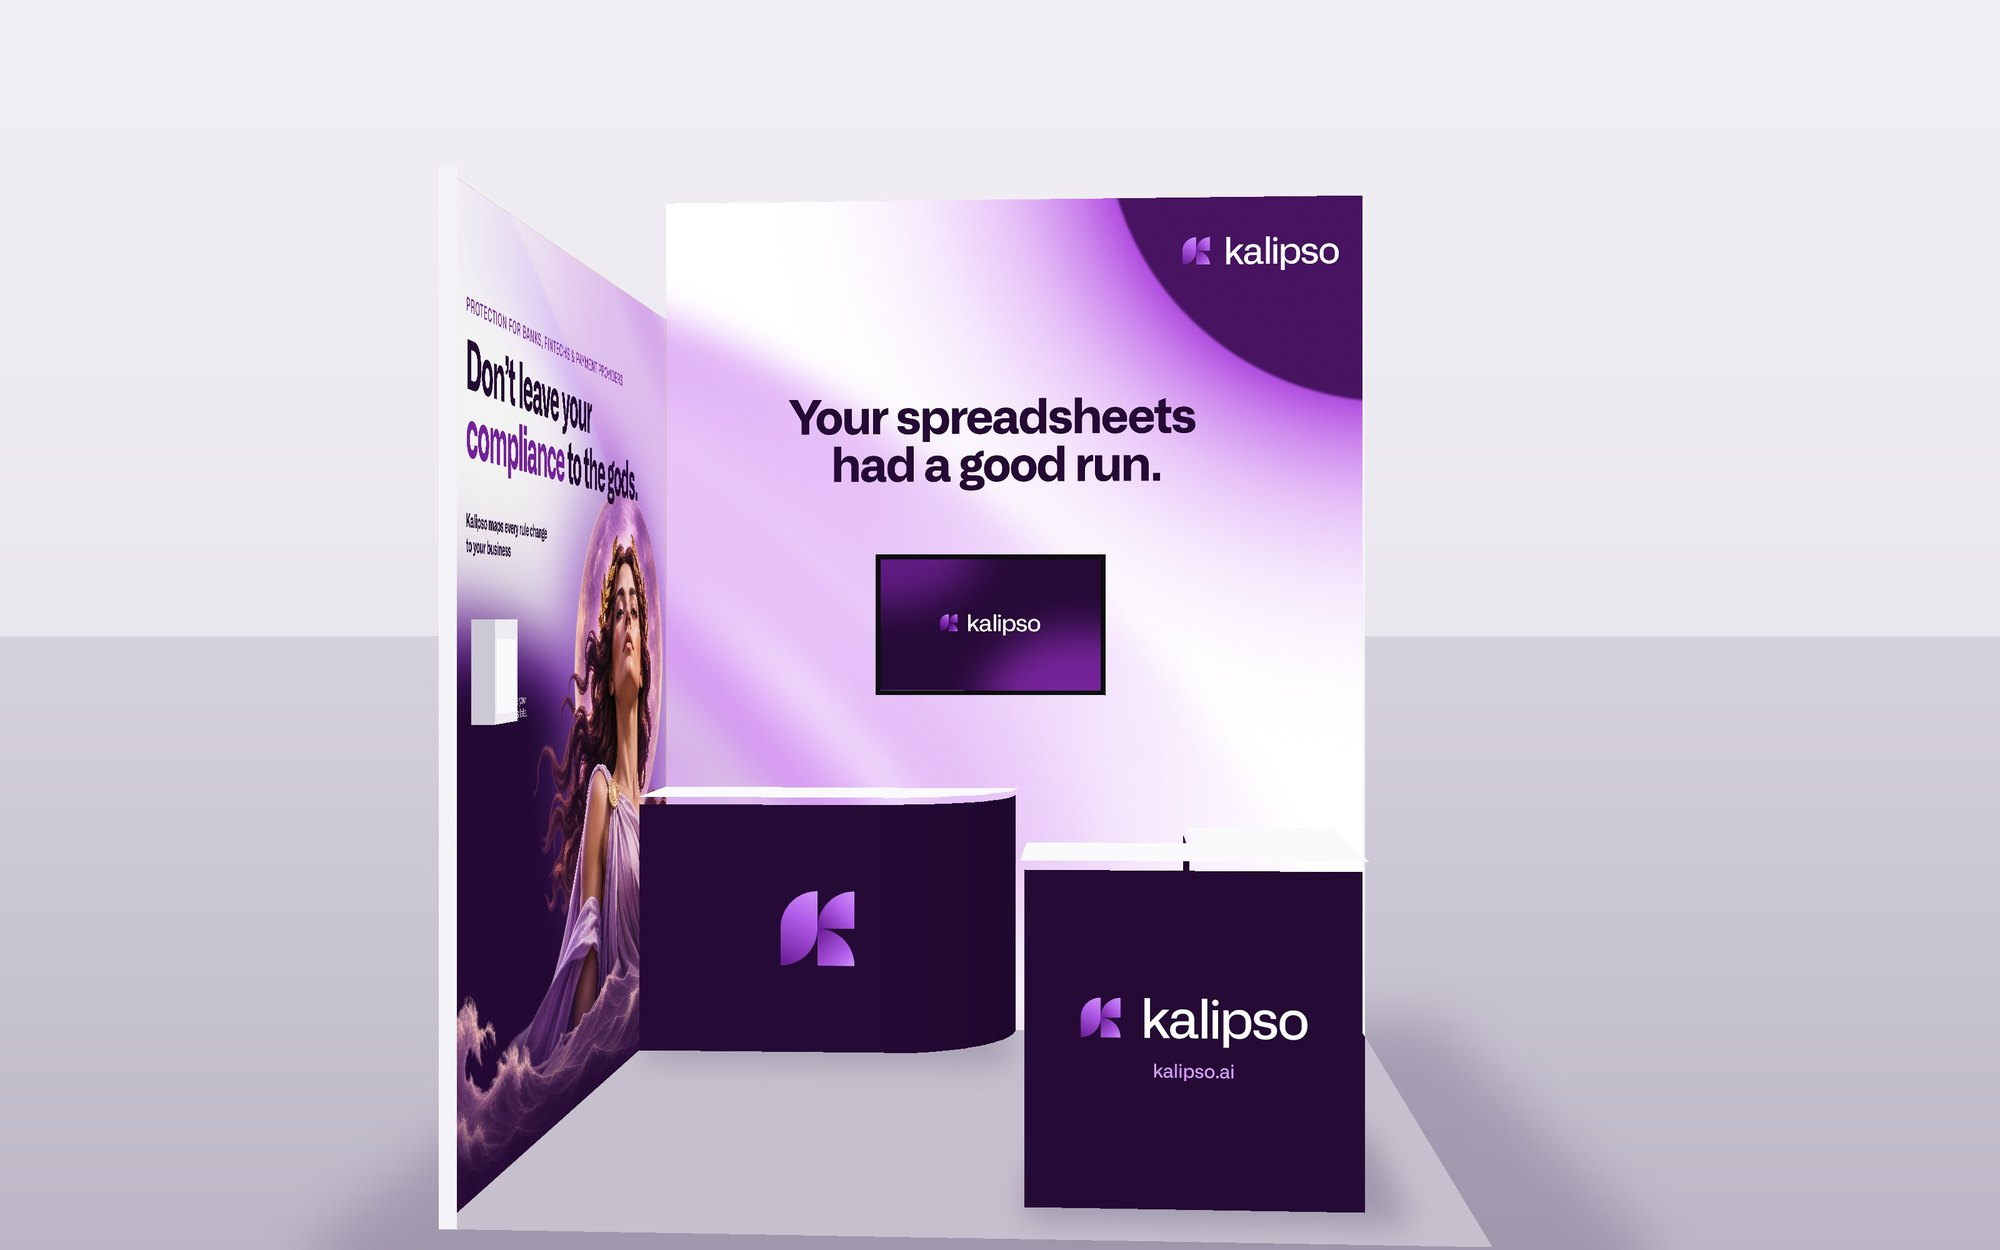
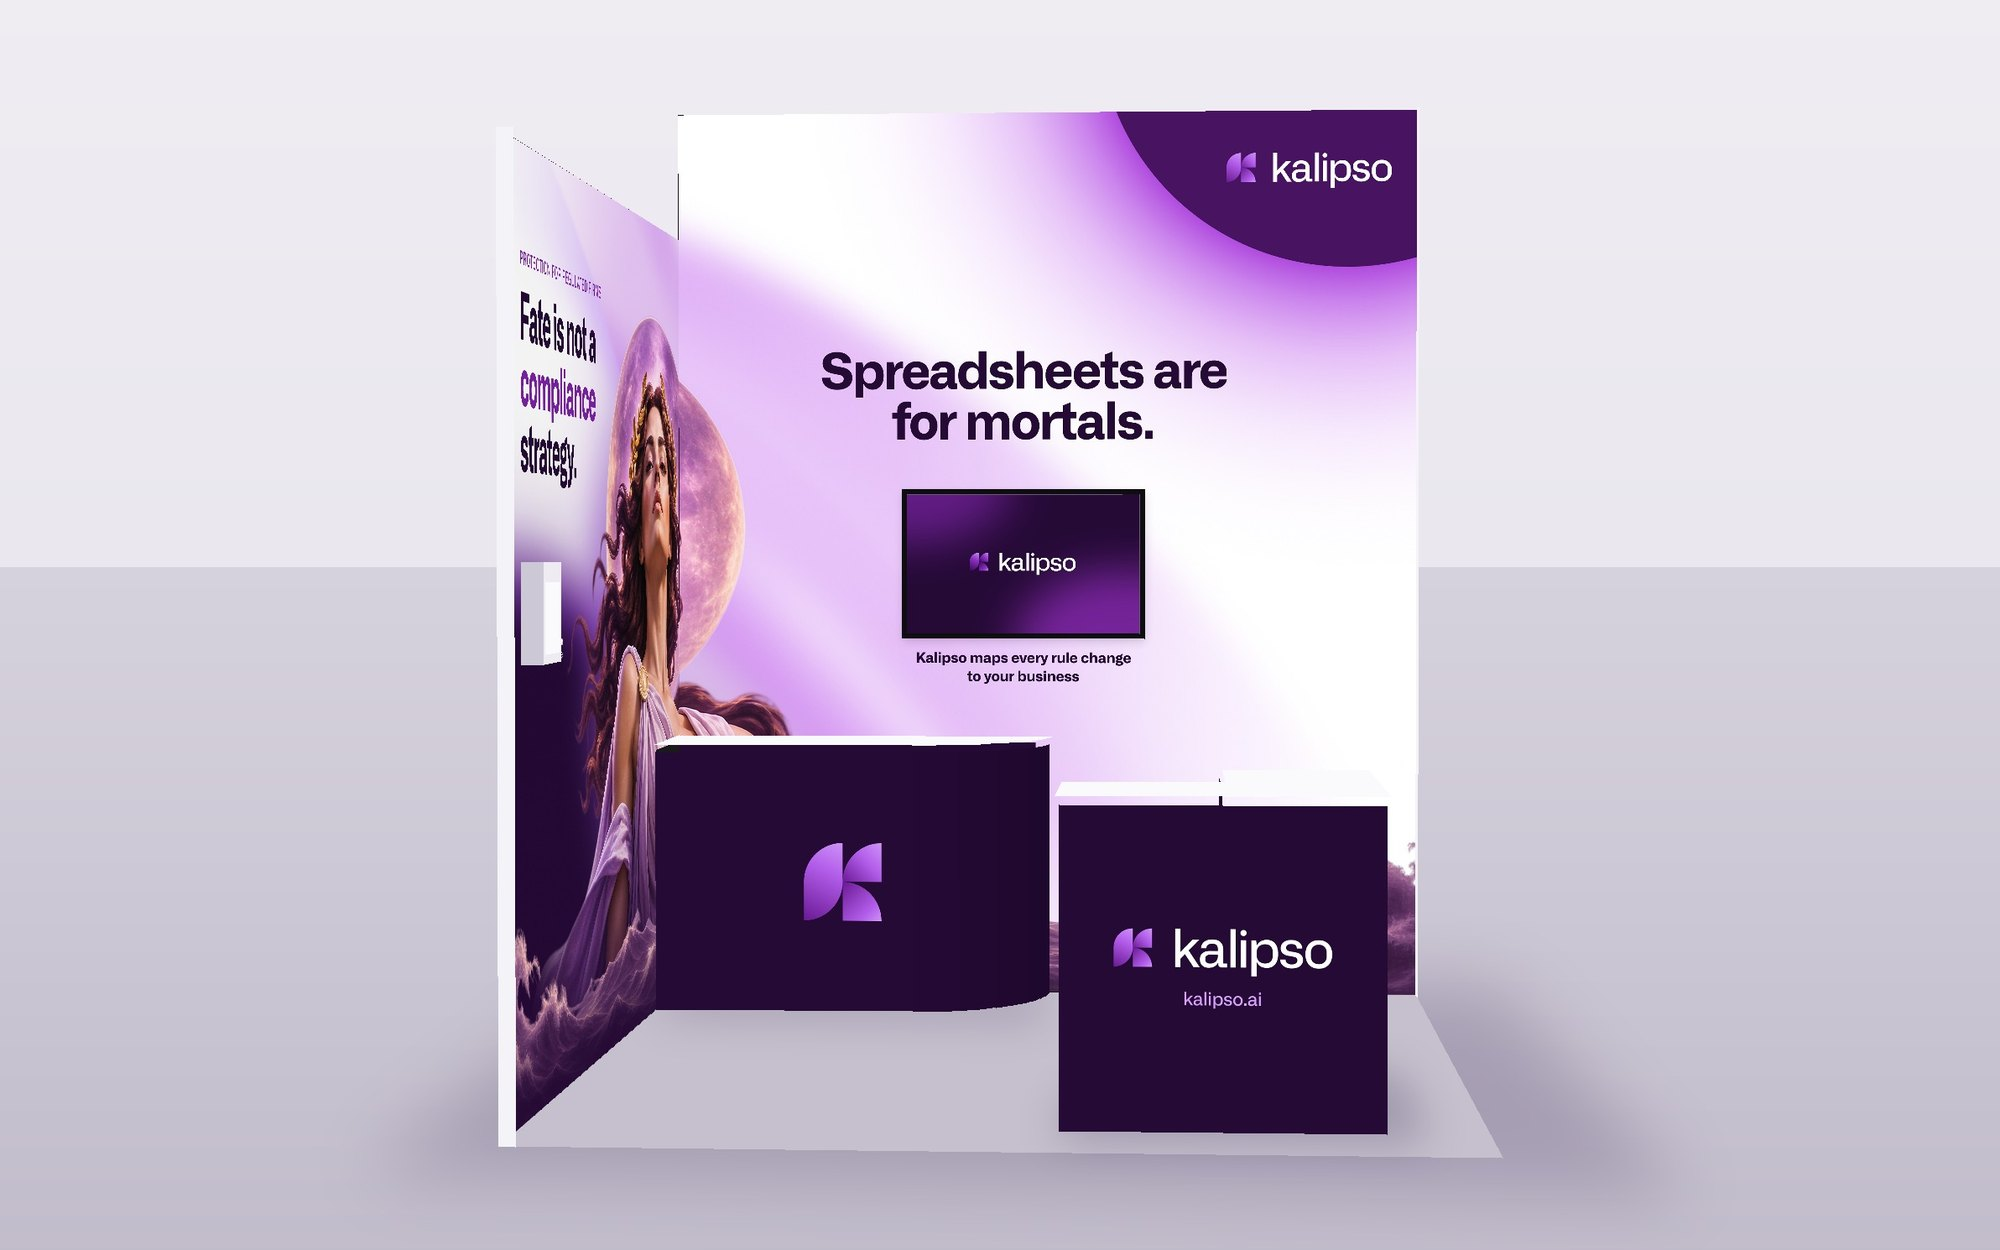
Stands page: 20 Nov FinTech mockups, Virginia's quote on #RISK

Changed region(s): [[0.155, 0.0624, 0.837, 1.0]]

diff --git a/services/exhibition-stand-design.html b/services/exhibition-stand-design.html
@@ -74,6 +74,12 @@
   .esd-project__lead { margin: 0; font-size: 15px; line-height: 1.55; color: var(--ink-3); max-width: 44ch; }
   .esd-project__meta { margin-top: auto; padding-top: 14px; border-top: 1px solid var(--rule-light); width: 100%; display: flex; flex-direction: column; gap: 8px; font-family: var(--mono); font-size: 10px; letter-spacing: 0.16em; text-transform: uppercase; color: var(--ink-3); }
   .esd-project__meta b { font-weight: 400; color: var(--ink); }
+  .esd-quote { margin: 14px 0 0; padding: 2px 0 2px 14px; border-left: 2px solid var(--pop); }
+  .esd-quote p { margin: 0 0 8px; font-family: var(--display); font-style: italic; font-weight: 500; font-size: 15px; line-height: 1.35; letter-spacing: -0.01em; color: var(--ink); max-width: 40ch; }
+  .esd-quote__who { display: flex; align-items: center; gap: 10px; }
+  .esd-quote__who img { width: 32px; height: 32px; border-radius: 50%; border: 1px solid var(--rule-light); background: #fff; object-fit: cover; flex-shrink: 0; }
+  .esd-quote__who span { font-size: 13px; line-height: 1.25; color: var(--ink-3); }
+  .esd-quote__who b { display: block; font-weight: 500; font-size: 14px; color: var(--ink); }
   .esd-dot { font-style: normal; font-size: 9px; vertical-align: 1px; margin-right: 6px; }
 
   /* one main mockup (same 16:10 shape as the renders, so nothing is cut off) + two on the side;
@@ -191,9 +197,9 @@
       </div>
     </div>
     <div class="esd-gal reveal">
-      <figure><span class="esd-tag">Mockup</span><img src="/assets/stands/fintech-goddess-side.jpg" srcset="/assets/stands/fintech-goddess-side-sm.jpg 1000w, /assets/stands/fintech-goddess-side.jpg 2000w" sizes="(max-width: 760px) 100vw, 70vw" width="2000" height="1250" alt="Mockup of the Kalipso FinTech Connect stand: a goddess rising out of deep purple under the headline 'Don't leave your compliance to the gods.'" fetchpriority="high"></figure>
+      <figure><span class="esd-tag">Mockup</span><img src="/assets/stands/fintech-goddess-side.jpg" srcset="/assets/stands/fintech-goddess-side-sm.jpg 1000w, /assets/stands/fintech-goddess-side.jpg 2000w" sizes="(max-width: 760px) 100vw, 70vw" width="2000" height="1250" alt="Mockup of the Kalipso FinTech Connect stand: a goddess rising out of deep purple under the headline 'Fate is not a compliance strategy.'" fetchpriority="high"></figure>
       <figure><span class="esd-tag">Mockup</span><img src="/assets/stands/fintech-goddess-corner-sm.jpg" srcset="/assets/stands/fintech-goddess-corner-sm.jpg 1000w, /assets/stands/fintech-goddess-corner.jpg 2000w" sizes="(max-width: 760px) 50vw, 26vw" width="1000" height="625" alt="Corner view of the Kalipso goddess stand with both walls and the branded counters"></figure>
-      <figure><span class="esd-tag">Mockup</span><img src="/assets/stands/fintech-goddess-front-sm.jpg" srcset="/assets/stands/fintech-goddess-front-sm.jpg 1000w, /assets/stands/fintech-goddess-front.jpg 2000w" sizes="(max-width: 760px) 50vw, 26vw" width="1000" height="625" alt="Front view of the Kalipso stand: 'Your spreadsheets had a good run.' above the screen"></figure>
+      <figure><span class="esd-tag">Mockup</span><img src="/assets/stands/fintech-goddess-front-sm.jpg" srcset="/assets/stands/fintech-goddess-front-sm.jpg 1000w, /assets/stands/fintech-goddess-front.jpg 2000w" sizes="(max-width: 760px) 50vw, 26vw" width="1000" height="625" alt="Front view of the Kalipso stand: 'Spreadsheets are for mortals.' above the screen"></figure>
     </div>
   </article>
 
@@ -204,6 +210,10 @@
       <div>
         <h2 class="esd-project__title">Kalipso at #RISK Expo Europe 2026<span style="color:var(--pop);">.</span></h2>
         <p class="esd-project__lead">For this event, the goal was to give everyone walking past what they need to get started with Kalipso: what it does, the results it delivers and a live demo.</p>
+        <blockquote class="esd-quote">
+          <p>&ldquo;Quick update from Risk London! &#128522; Here&rsquo;s our stand! It looks really good, and I think it stands out compared to many of the others here. We&rsquo;re really happy with how it turned out.&rdquo;</p>
+          <footer class="esd-quote__who"><img src="/assets/testimonial-kalipso.png" alt="" width="32" height="32"><span><b>Virginia</b>COO, Kalipso</span></footer>
+        </blockquote>
       </div>
       <div class="esd-project__meta">
         <span><b>#RISK Expo Europe</b> · ExCeL London</span>
